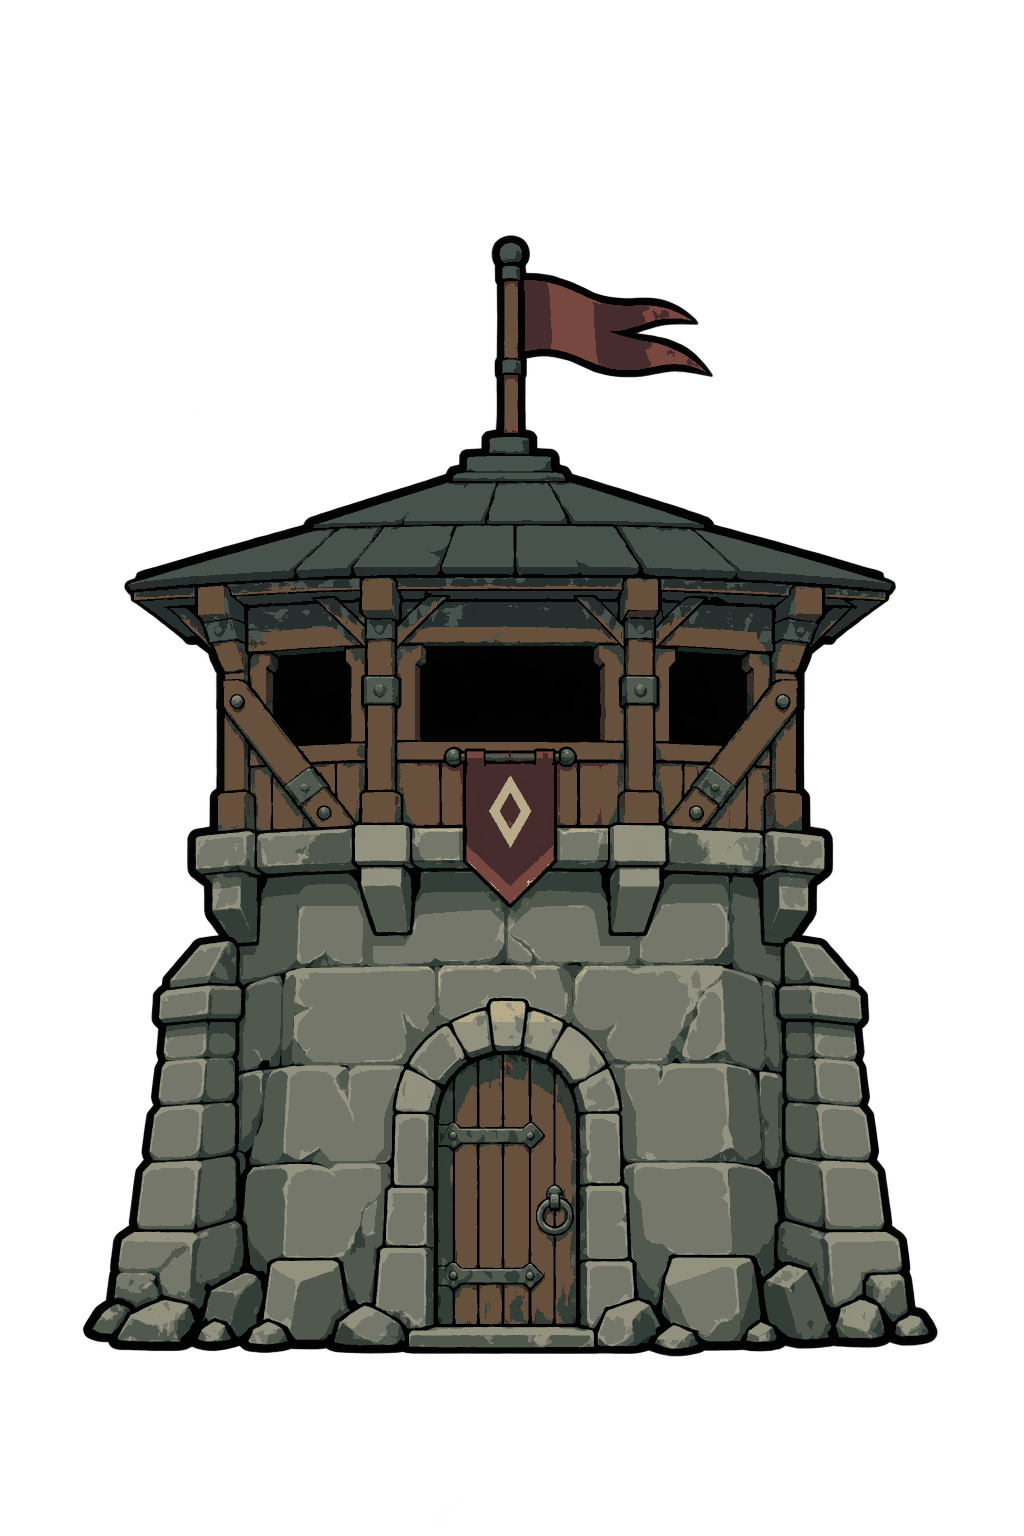
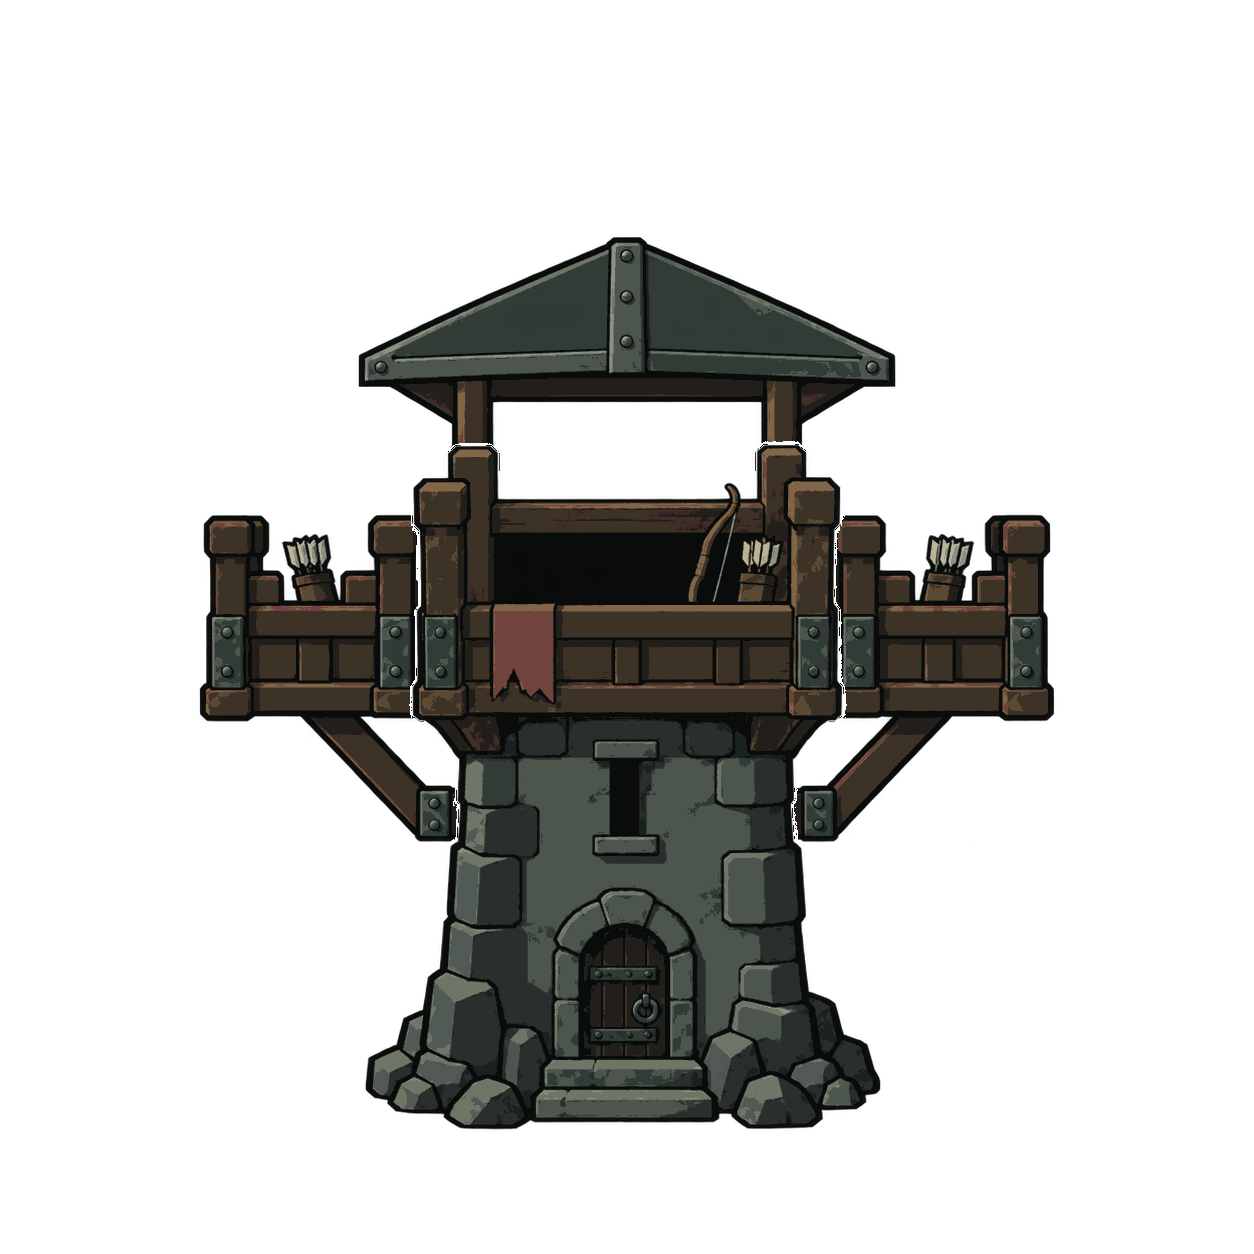
Finalize Stormspire integration and concurrent tower artwork updates

diff --git a/docs/ART_DIRECTION.md b/docs/ART_DIRECTION.md
@@ -86,6 +86,17 @@ The artwork implementation lives in scripts/rendering/terrain/terrain_art.gd, sc
 
 ## Extension contract
 
+Stormspire uses the five authored Tempest Spire sprites from
+`docs/concepts/stormspire-tempest-new/`, copied unchanged into the electric
+artwork family. Skyfork maps to Tempest Web and Thunderward to Thunderseal;
+existing branch names, abilities and saved IDs remain intact. One 20-pixels-per-
+unit transform anchors source `(627, 1164)` at world `(0, 0)` across all stages.
+Catalog portrait bounds include the complete silhouettes. Authored entries stay
+active at every zoom and survive native rebaking. The shared electric outlet
+`(0, -48.2)` aligns lightning with the staff inset; chained arcs still start at
+their struck enemy. `tests/rendered/stormspire_runner.gd` checks all five images,
+portraits and the three upright phone sizes.
+
 Pyre's five runtime PNGs are byte-identical copies of the approved Ember Shrine
 family. `assets/artwork/catalog.json` supplies one full-canvas transform at 16
 pixels per world unit: the source ground anchor `(627, 1130)` maps to `(0, 0)`
@@ -98,15 +109,19 @@ projectile muzzle `(0, -29)` maps into the open central flame at source pixel
 common anchor, flame outlet, normal/high-zoom drawing and portrait framing, and
 captures all stages at 360x640, 390x844 and 540x960.
 
-Gloamwatch replaces Ashneedle through the shared authored artwork catalog, with
-three base tiers and the Frostneedle/Poison Arrow branches. The approved source
-PNGs, dark palette and alignment live in `docs/concepts/gloam-renewed/`. This
-original redesign uses a shallow-roofed timber firing loft over a stone base;
-the earlier Gloam artwork was not used as a generation reference. Full-canvas
-runtime copies share one scale and ground anchor; authored catalog entries remain
-active at high zoom and survive native rebaking. Optional alpha cleanup is cached
-at runtime without modifying the source files. The watchman stays hidden behind
-black windows; separate wooden projectiles launch from the front gallery.
+Ashneedle's approved five-sprite family is installed on the existing `rapid`
+tower, currently displayed as Gloamwatch. Its original source images, palette,
+locked layers and alignment live in `docs/concepts/ashneedle-original-2026-09-20/`.
+The stone watchpost gains side firing galleries and a central iron canopy;
+Arrowstorm supplies Frostneedle's artwork and Lastwatch supplies Poison Arrow's.
+Both existing branch names, mechanics and save identities remain unchanged.
+Runtime PNGs are byte-identical copies of the five approved 1254x1254 sources,
+all using 18 pixels per world unit and ground anchor (627, 1128). Shared portrait
+bounds include both branches' full silhouettes. Authored catalog entries remain
+active at high zoom and survive native rebaking. Cached alpha cleanup leaves
+source files unchanged; arrows launch through the original dark firing opening.
+`tests/rendered/gloamwatch_runner.gd` checks source identity, framing, projectile
+clearance and runtime/export routing, and captures all five at three phone sizes.
 
 Ironspike's mounted bow and loaded bolts rotate around the shared projectile
 muzzle to match the fired bolt's direction; its socket and pedestal stay fixed.

diff --git a/docs/concepts/stormspire-tempest-new/README.md b/docs/concepts/stormspire-tempest-new/README.md
@@ -10,7 +10,8 @@ The request used the word "pyre" and then supplied this specific Stormspire
 brief; the supplied lightning-spire description governs this artwork. No earlier
 tower images or designs were supplied to ImageGen. Written image-generation
 instructions govern the style, five-sprite progression, palette and alignment.
-This is an artwork package, with no gameplay, balance or runtime catalog changes.
+All five sprites are installed through the runtime artwork catalog. Tower and
+branch identities, gameplay behavior and balance remain unchanged.
 
 ## Finished sprites
 
@@ -60,3 +61,27 @@ Run `python build_family.py finish` with Pillow and NumPy to repeat the final
 sweep, readback checks and review exports. Review images are resized for display;
 the five sprite files and their source layers keep their original dimensions.
 Godot is excluded from this concept directory by `.gdignore`.
+
+## Runtime installation
+
+`assets/artwork/tower/electric/` contains byte-identical copies of the five
+finished sprites. Tiers 1-3 map directly; Skyfork supplies `4/tempest_web.png`
+and Thunderward supplies `4/thunderseal.png`. Existing Tempest Web and Thunderseal
+names, abilities, stats and saved IDs are retained.
+
+All catalog entries are authored replacements at 20 pixels per world unit, with
+full-canvas bounds `(-31.35, -58.2, 62.7, 62.7)`. The source ground anchor maps to
+world `(0, 0)` for every stage. Shared portrait bounds `(-17, -55, 34, 57)` contain
+every branch without changing battlefield scale. Authored images remain active
+at high zoom and are protected from the native artwork baker.
+
+The electric projectile outlet is `(0, -48.2)`, corresponding to source pixel
+`(627, 200)` inside the original staff's blue inset. Chain arcs compensate using
+the shared outlet setting and still originate at the struck enemy. Lightning
+flight duration, damage, targeting and abilities are unchanged.
+
+`tests/rendered/stormspire_runner.gd` verifies source identity, branch mapping,
+alignment, the staff outlet, normal/high-zoom rendering, export rendering and
+48/80-pixel portraits. It captures all stages at 360x640, 390x844 and 540x960.
+`tests/portal_attributes_runner.gd` checks primary/chain origins, instantaneous
+flight and the existing damage/resistance behavior.

diff --git a/docs/TOWER_ART.md b/docs/TOWER_ART.md
@@ -11,7 +11,7 @@ base silhouettes, preserving the game's flat palette and black outlines.
 | Gloamwatch | Timber supports and top flag | Fortified buttresses and front banner |
 | Obelisk | Rune and stone collar | Satellite crystals and floating capstone |
 | Pyre | Stone buttresses, reinforced collar and hotter roof fire | Twin flame sconces around the battlements |
-| Stormspire | Conductive bands and charged tips | Outer lightning rods and arcing crown |
+| Stormspire | Paired iron conductor arms | Two smaller forked staffs on those arms |
 
 Pyre's base is a tall coral-stone watchtower with masonry seams, a crenellated
 parapet, a black arched furnace and an ochre/ember roof flame. Its reusable,
@@ -50,6 +50,18 @@ returning crescents, armed/unarmed road traps and orbiting blades from combat
 state. Exposed enemies display an eye mark through the shared affliction renderer.
 Game collision positions and visual positions share one owner; the cosmetic
 effect limit cannot suppress projectile damage or trap triggers.
+
+## Stormspire authored family
+
+All five approved Tempest Spire PNGs are installed in
+`assets/artwork/tower/electric/`. The catalog uses one 20-pixels-per-world-unit
+transform and ground anchor for all stages, plus complete portrait framing.
+Skyfork supplies Tempest Web's image; Thunderward supplies Thunderseal's image.
+These authored entries remain active at every zoom and survive native rebaking.
+Battlefields, build ghosts, portraits and upgrade previews use the same images.
+The lightning outlet matches the staff's blue inset while enemy-to-enemy chain
+arcs retain their proper origin. See [the source family](concepts/stormspire-tempest-new/README.md)
+for the exact palette, source pixels, alignment and runtime mapping.
 
 ## Gloamwatch authored family
 

diff --git a/docs/concepts/ashneedle-original-2026-09-20/README.md b/docs/concepts/ashneedle-original-2026-09-20/README.md
@@ -6,9 +6,11 @@ archers' perch, tireless medieval watchmen, disciplined bowfire, lesser enemies
 and wounded foes. No earlier tower artwork or concept was supplied as a visual
 reference. Written image-generation and style instructions governed production.
 
-This is a complete art concept set. It is not installed in the runtime catalog
-and does not change tower names, attacks, statistics, save identities or balance.
-The two specialization names below are descriptive art concepts.
+This family is installed on the existing `rapid` tower (currently displayed as
+Gloamwatch) through `assets/artwork/catalog.json`. Runtime PNGs are byte-identical
+copies of these approved sprites. Tower names, attacks, statistics, save identities
+and balance are unchanged. The two specialization names below describe the artwork:
+Arrowstorm maps to Frostneedle, and Lastwatch maps to Poison Arrow.
 
 | Sprite | Visible progression |
 | --- | --- |
@@ -62,4 +64,8 @@ the allowed palette, saves and reopens them, and checks every nontransparent RGB
 value. It confirms zero horizontal/vertical core offset, a common ground anchor,
 exact prior-layer preservation, and unchanged alpha during the color sweep.
 The set was visually inspected at full size and at the review's small scale.
-These are artwork checks; no runtime or physical-device testing was performed.
+The focused runtime runner is `tests/rendered/gloamwatch_runner.gd`. It checks
+all five source hashes, common placement, projectile clearance, portrait bounds,
+normal/high-zoom rendering and export paths, and captures 360x640, 390x844 and
+540x960 phone layouts. Runtime scale is 18 source pixels per world unit, with
+portrait bounds (-30, -60, 60, 61). Physical-device acceptance remains separate.

diff --git a/tests/README.md b/tests/README.md
@@ -27,6 +27,7 @@ Every launcher mode is silent by default. Only use `-Sound` when the user asks f
 | Campaign maps | `rendered/campaign_map_runner.gd`, `rendered/campaign_map_menu_runner.gd`, `rendered/baked_map_runner.gd`, `rendered/campaign_landscape_runner.gd` |
 | Terrain and portals | `rendered/campaign_terrain_checks.gd`, `rendered/campaign_portal_runner.gd` |
 | Tower presentation | `rendered/tower_depth_runner.gd`, `rendered/tower_level_indicator_runner.gd`, `rendered/tower_upgrade_art_checks.gd`, `rendered/construction_effect_runner.gd`, `rendered/hex_effect_runner.gd` |
+| Stormspire authored sprites and lightning origin | `rendered/stormspire_runner.gd`, `portal_attributes_runner.gd` (all five stages, high zoom, portraits, three phone sizes, primary and chain origins) |
 | Complete dark theme and fixed action colors | `rendered/moonlit_theme_runner.gd` (all menus, content types, every level editor, fixed action roles, contrast and borders); `rendered/button_roles_runner.gd` (built-in colors, legacy preference removal, uniform borders, touch navigation and modal layering) |
 | Shared surfaces, currency and slots | `rendered/parchment_corner_runner.gd`, `rendered/currency_text_runner.gd`, `rendered/save_slot_picker_runner.gd`, `rendered/welcome_layout_runner.gd` |
 
